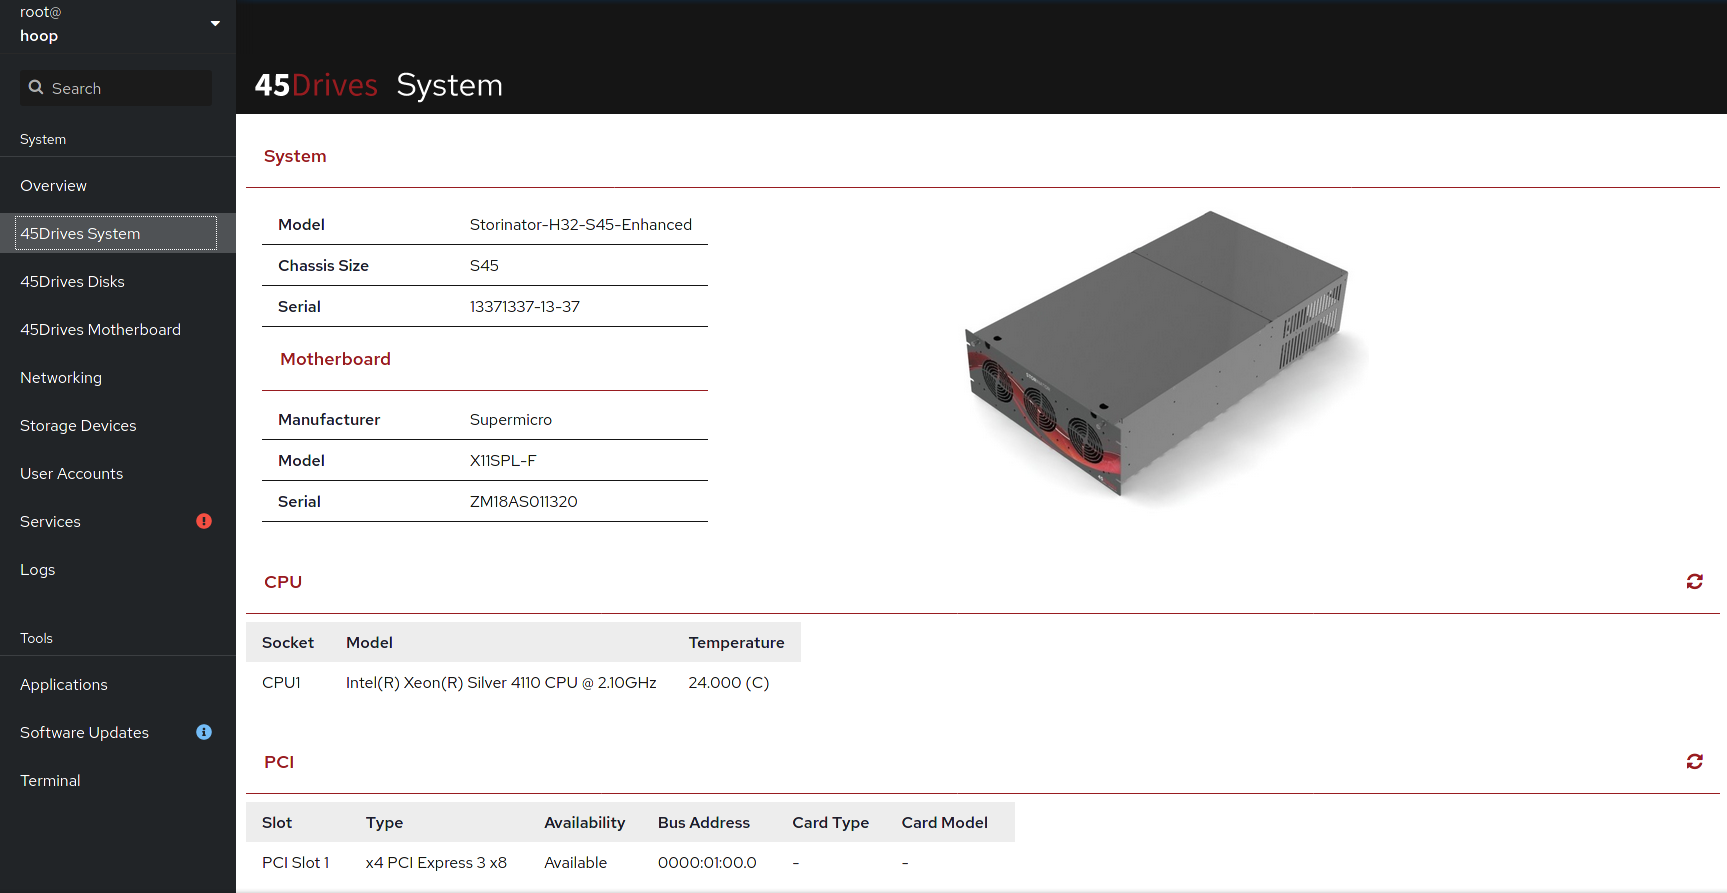
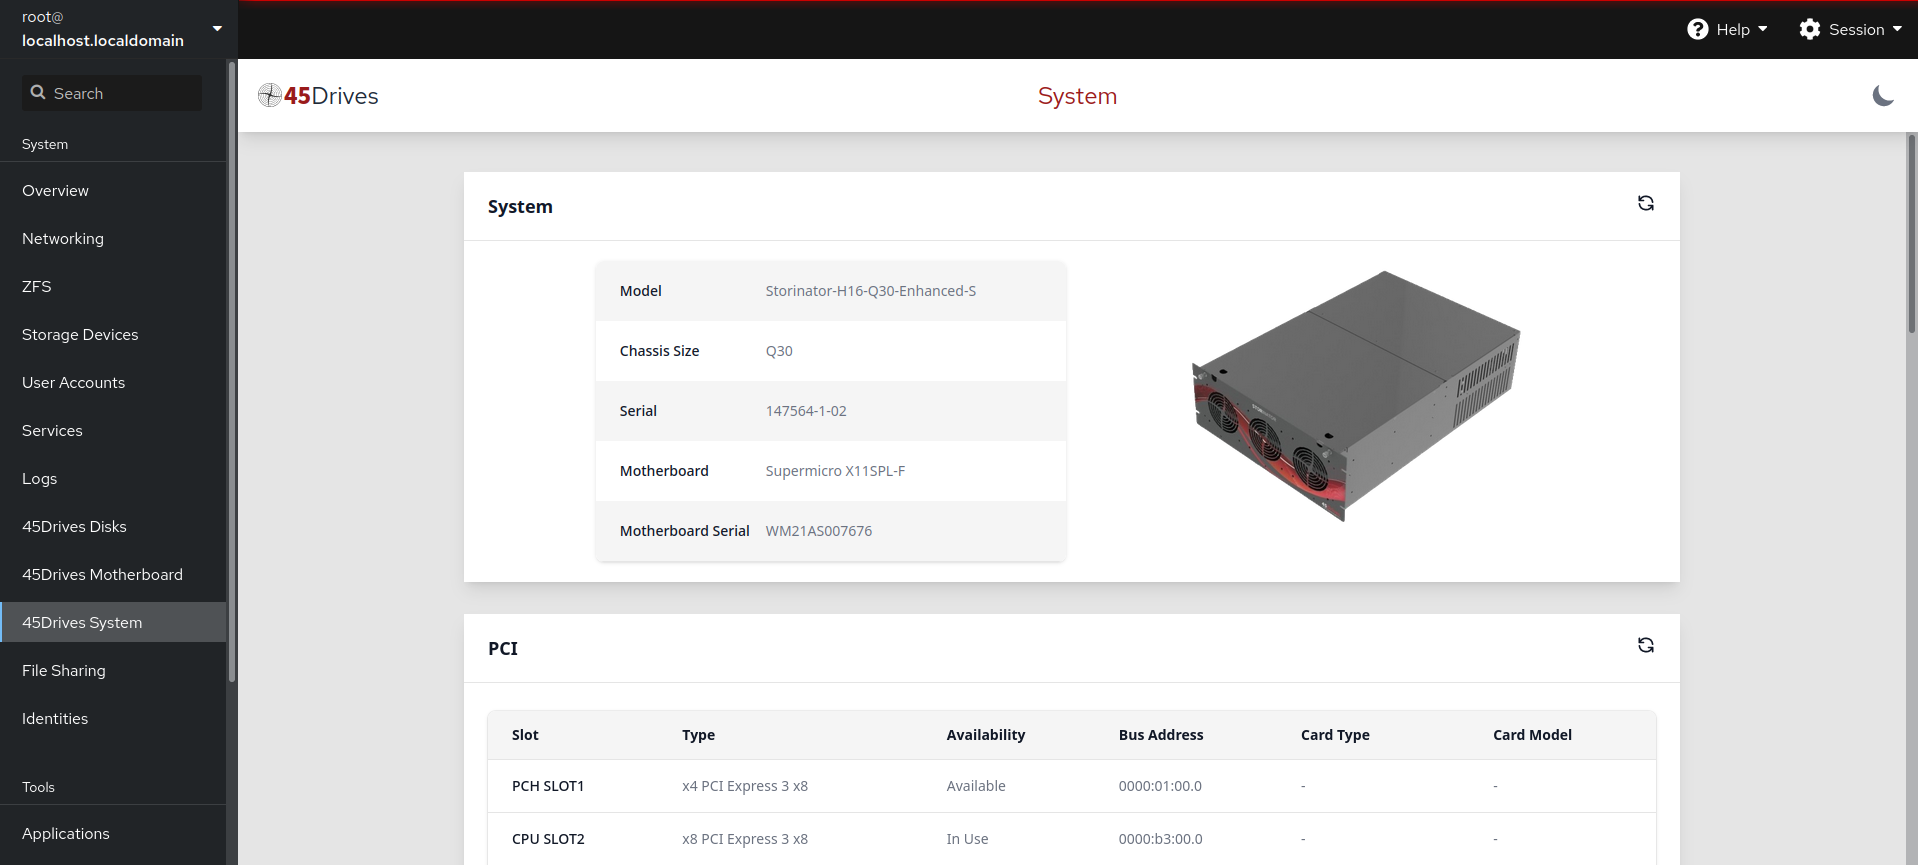
updated readme for 2.1.1 pre-release

diff --git a/README.md b/README.md
@@ -3,10 +3,9 @@ A cockpit module that displays hardware information for 45Drives storage server 
 
 ## Supported OS
 - Rocky Linux
-- CentOS 7.X
-- Ubuntu 20.04.1 LTS (Focal Fossa) (Requires Version >= 1.3.0)
+- Ubuntu 20.04.1 LTS (Focal Fossa)
 
-## Features (Version 1.3.0)
+## Features (Version 2.1.1)
 ### System
 <img src="https://raw.githubusercontent.com/45Drives/cockpit-hardware/dev/documentation/45drives-system.png">  
 Lists information about your 45Drives Storinator product including:
@@ -17,6 +16,7 @@ Lists information about your 45Drives Storinator product including:
 * PCI Devices (Speeds, slot numbers, bus addresses, installed cards, and models)
 * Memory (Location, Memory Type, Size, Manufacturer, serial and temperature readings)
 * Network Information (Connection Names, States, MAC & IP Addresses, and PCI information if detected)
+* IPMI address information
 
 ### Disks
 Displays disks as they appear physically on your 45Drives Storage Server.
@@ -41,11 +41,12 @@ Currently supports the following motherboard models:
 * H11SSL-i
 * X11SSH-CTF
 * X11SSM-F
+* X11SPi-TF
 
 
 # Installation
 
-## Rocky Linux or CentOS 7
+## Rocky Linux
 
 ### Add the official 45Drives Repo
 https://repo.45drives.com/setup.html
@@ -60,9 +61,9 @@ Simply change ```enabled = 0``` to ```enabled = 1```.
 enable using this command: ```sed -i 's/enabled = 0/enabled = 1/g' /etc/yum.repos.d/45drives.repo```
 
 ### Install Package
-With the 45drives Repo enabled, you can now install using yum from your terminal.
+With the 45drives Repo enabled, you can now install using dnf from your terminal.
 ```
-yum install cockpit-45drives-hardware
+dnf install cockpit-45drives-hardware
 ```
 
 ## Ubuntu 20

diff --git a/CHANGELOG.md b/CHANGELOG.md
@@ -1,3 +1,6 @@
-## cockpit-45drives-hardware 2.1.0-13
+## cockpit-45drives-hardware 2.1.1-1
 
-* updated zfs_info script
+* updated 45Drives-Motherboard, 45Drives-Disks and 45Drives-System modules using VueJS
+* Added dark mode for all modules
+* Disks module will now highlight and animate zpools, vdevs and devices
+* Updated all modules to work on mobile
